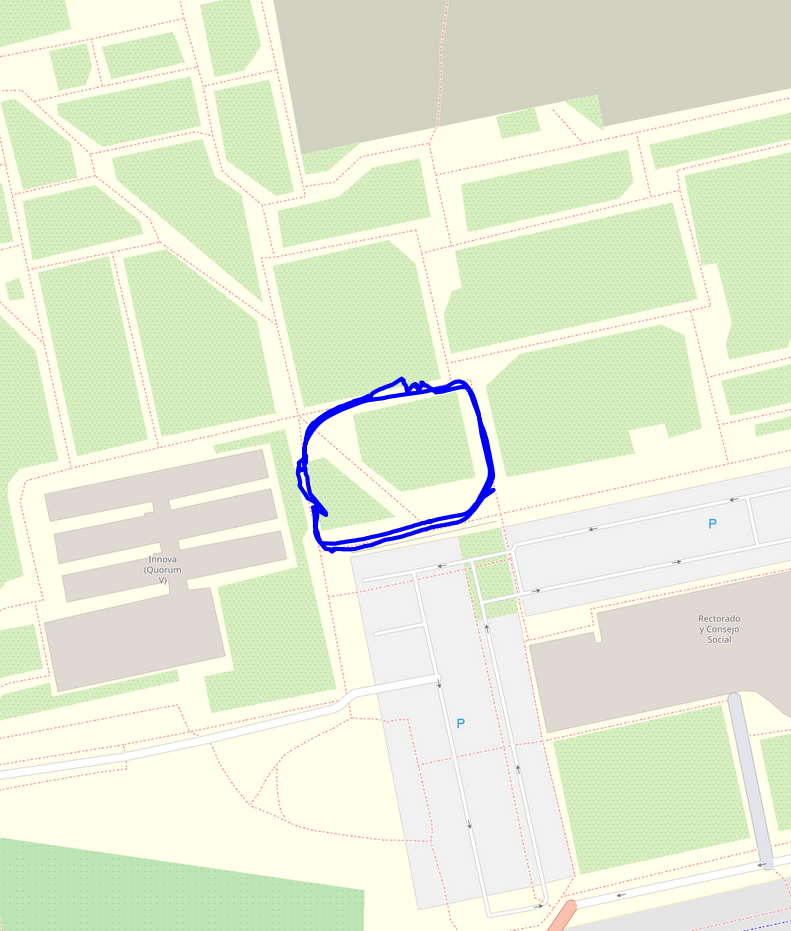
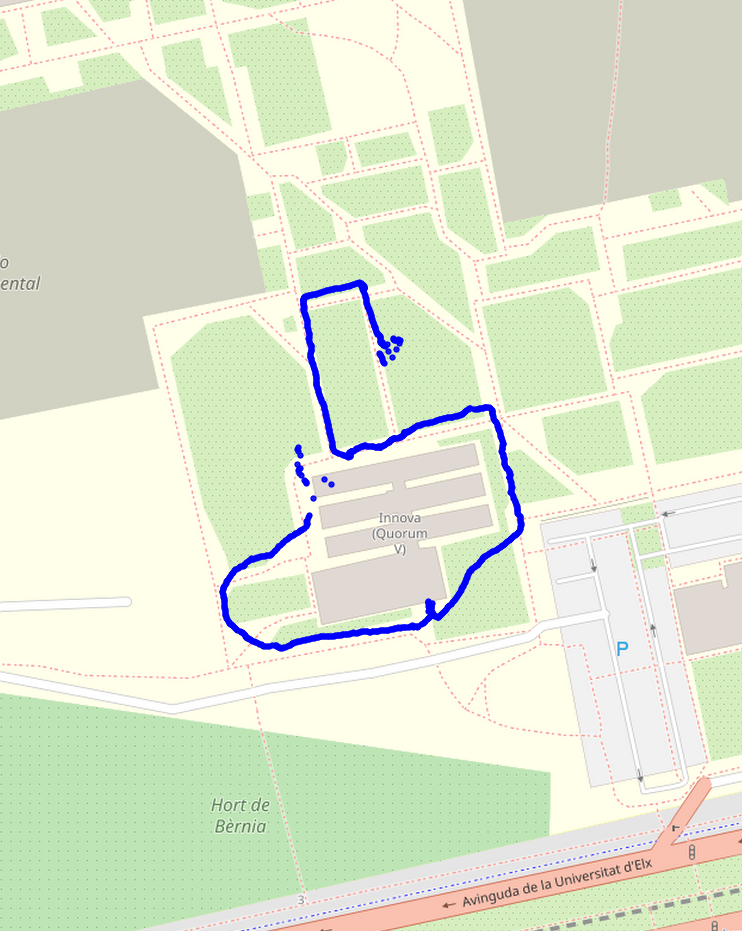
Working copy. Everything parametrized.

diff --git a/map/map.py b/map/map.py
@@ -1,13 +1,15 @@
-# import numpy as np
-# from artelib.homogeneousmatrix import HomogeneousMatrix
-# from artelib.tools import slerp
-# from eurocreader.eurocreader import EurocReader
-# from artelib.vector import Vector
-# from artelib.quaternion import Quaternion
-# import bisect
 # import matplotlib.pyplot as plt
+import numpy as np
+import yaml
 from lidarscanarray.lidarscanarray import LiDARScanArray
 from observations.posesarray import PosesArray, ArucoPosesArray, ArucoLandmarksPosesArray
+import tilemapbase
+import matplotlib.pyplot as plt
+from tools.gpsconversions import utm2gps
+import pyproj
+import pandas as pd
+
+from tools.plottools import plot_gps_OSM
 
 
 class Map():
@@ -28,13 +30,14 @@ class Map():
 
 
     """
-    def __init__(self, times=None, values=None):
+    def __init__(self):
         """
         given a list of scan times (ROS times), each pcd is read on demand
         """
         self.robotpath = None
         self.lidarscanarray = None
         self.landmarks = None
+        self.utm_ref = None
 
     def __len__(self):
         return len(self.robotpath)
@@ -58,8 +61,15 @@ class Map():
         # load the scans according to the times, do not load the corresponding pointclouds
         self.lidarscanarray.add_lidar_scans()
         # also load the ARUCO landmarks
-        self.landmarks = ArucoLandmarksPosesArray()
-        self.landmarks.read_data(directory=directory, filename='/robot0/SLAM/solution_graphslam_landmarks.csv')
+        self.landmarks_aruco = ArucoLandmarksPosesArray()
+        self.landmarks_aruco.read_data(directory=directory, filename='/robot0/SLAM/solution_graphslam_landmarks.csv')
+
+        # global_dir = os.path.dirname(os.path.abspath(__file__))
+        yaml_file_global = directory + '/' + 'robot0/gps0/reference.yaml'
+        with open(yaml_file_global) as file:
+            self.utm_ref = yaml.load(file, Loader=yaml.FullLoader)
+
+
 
     def draw_all_clouds(self):
         # self.lidarscanarray.draw_all_clouds_visualizer()
@@ -71,6 +81,7 @@ class Map():
         - view path
         - view pointclouds
         - view ARUCO landmarks
+        - The terraplanist option sets artificially z=0 in the solution.
         """
         global_transforms = self.robotpath.get_transforms()
         self.lidarscanarray.draw_map(global_transforms=global_transforms,
@@ -79,7 +90,127 @@ class Map():
                                      heights=[-2, 1.2],
                                      keyframe_sampling=keyframe_sampling,
                                      terraplanist=terraplanist)
-        # drawposes_openstreet
-        # draw
+
+    # plot_gps_OSM(df_gps=df_gps, save_fig=True, expand=0.001)
+
+    def plot_solution_utm_OSM(self, expand=0.001, save_fig=False):
+        # the global transforms expressed
+        global_transforms = self.robotpath.get_transforms()
+        utm_x = []
+        utm_y = []
+        utm_altitude = []
+        for transform in global_transforms:
+            pos = transform.pos()
+            utm_x.append(pos[0])
+            utm_y.append(pos[1])
+            utm_altitude.append(pos[2])
+
+        # convert from UTM to GPS to plot
+        latitude, longitude = utm2gps(utm_x, utm_y)
+        latitude = np.array(latitude)
+        longitude = np.array(longitude)
+        # add ref
+        latitude = latitude + self.utm_ref.get('latitude')
+        longitude = longitude + self.utm_ref.get('longitude')
+        # now project lat, lng to osm map.
+        tilemapbase.init(create=True)
+        extent = tilemapbase.Extent.from_lonlat(
+            longitude.min() - expand,
+            longitude.max() + expand,
+            latitude.min() - expand,
+            latitude.max() + expand,
+        )
+        x = []
+        y = []
+        for i in range(len(latitude)):
+            xi, yi = tilemapbase.project(longitude[i], latitude[i])
+            x.append(xi)
+            y.append(yi)
+        # trip_projected = df_gps.apply(
+        #     lambda x: tilemapbase.project(longitude, x.latitude), axis=1
+        # ).apply(pd.Series)
+        # trip_projected.columns = ["x", "y"]
+
+        tiles = tilemapbase.tiles.build_OSM()
+        fig, ax = plt.subplots(figsize=(8, 8), dpi=300)
+        ax.xaxis.set_visible(False)
+        ax.yaxis.set_visible(False)
+        plotter = tilemapbase.Plotter(extent, tiles, height=600)
+        plotter.plot(ax, tiles, alpha=0.8)
+        # ax.plot(trip_projected.x, trip_projected.y, color='blue', linewidth=1)
+        ax.scatter(x, y, color='blue', marker='.', s=1)
+        plt.axis('off')
+        plt.show(block=True)
+        if save_fig:
+            fig.savefig('trip.png', bbox_inches='tight', pad_inches=0, dpi=300)
 
 
+    def plot_test(self):
+        # Reference point (arbitrary origin in latitude, longitude)
+        ref_lat = self.utm_ref.get('latitude')  # Latitude of the reference point
+        ref_lon = self.utm_ref.get('longitude')  # Longitude of the reference point
+
+        # UTM coordinates relative to the reference point (arbitrary origin)
+        # utm_x = np.array([500000, 500100, 500200])  # Easting (X)
+        # utm_y = np.array([4649776, 4649876, 4649976])  # Northing (Y)
+
+        global_transforms = self.robotpath.get_transforms()
+        utm_x = []
+        utm_y = []
+        utm_altitude = []
+        for transform in global_transforms:
+            pos = transform.pos()
+            utm_x.append(pos[0])
+            utm_y.append(pos[1])
+            utm_altitude.append(pos[2])
+        utm_x = np.array(utm_x)
+        utm_y = np.array(utm_y)
+
+        # (proj='utm', zone='30', ellps='WGS84', datum='WGS84', preserve_units=False,
+        # units='m')
+
+        # Define the UTM zone and projection (use 'epsg:32633' for UTM Zone 33N)
+        utm_zone = 30
+        utm_proj = pyproj.CRS(f"EPSG:326{utm_zone}")
+
+        # Define the WGS84 (GPS) projection
+        wgs84_proj = pyproj.CRS("EPSG:4326")
+
+        # Initialize a transformer object to convert from UTM to WGS84 (GPS)
+        transformer = pyproj.Transformer.from_crs(utm_proj, wgs84_proj, always_xy=True)
+
+        # First, we need to transform the reference point to UTM coordinates
+        geod = pyproj.Geod(ellps="WGS84")
+        ref_utm_x, ref_utm_y, _ = geod.fwd(ref_lon, ref_lat, 0, 0)  # Use forward projection to get UTM
+
+        # Adjust UTM coordinates by subtracting the reference UTM coordinates
+        utm_x_adjusted = utm_x - ref_utm_x
+        utm_y_adjusted = utm_y - ref_utm_y
+
+        # Now, transform the adjusted UTM coordinates to latitude and longitude
+        longitude, latitude = transformer.transform(utm_x_adjusted, utm_y_adjusted)
+
+        df_gps = pd.DataFrame({'longitude': longitude, 'latitude': latitude})
+        plot_gps_OSM(df_gps, expand=0.001, save_fig=False)
+
+        # # Create a plot with a tilemap base
+        # fig, ax = plt.subplots(figsize=(8, 8))
+        #
+        # # Create an OpenStreetMap basemap
+        # tilemapbase.tiles.plot(ax=ax, zoom=12, lon_0=ref_lon, lat_0=ref_lat, zorder=1)
+        #
+        # # Plot the transformed UTM coordinates (latitude, longitude)
+        # ax.scatter(longitude, latitude, color='red', zorder=2, label="Points")
+        #
+        # # Add a label for each point (optional)
+        # for lon, lat in zip(longitude, latitude):
+        #     ax.text(lon + 0.001, lat + 0.001, f"({lon:.2f}, {lat:.2f})", fontsize=8)
+        #
+        # # Set labels and title
+        # ax.set_xlabel('Longitude')
+        # ax.set_ylabel('Latitude')
+        # ax.set_title('UTM Coordinates on OpenStreetMap')
+        #
+        # # Show the map
+        # plt.legend()
+        # plt.show()

diff --git a/tools/gpsconversions.py b/tools/gpsconversions.py
@@ -1,4 +1,5 @@
 import numpy as np
+import pyproj
 from pyproj import Proj
 import pandas as pd
 
@@ -39,6 +40,51 @@ def gps2utm(df_gps, config_ref):
     df_gps['y'] = UTMy
     df_gps['altitude'] = altitude
     return df_gps
+
+
+def utm2gps(utm_x, utm_y):
+    """
+    Projects lat, lon to UTM coordinates
+    using the origin (first lat, lon)
+    """
+    utm_zone = 30  # UTM Zone
+    utm_letter = 'T'  # UTM Latitude Band
+
+    # base reference system
+    # lat_ref = config_ref['latitude']
+    # lon_ref = config_ref['longitude']
+    # altitude_ref = config_ref['altitude']
+
+    utm_proj = pyproj.CRS(f"EPSG:326{utm_zone}")
+
+    # Create the WGS84 (GPS) projection
+    wgs84_proj = pyproj.CRS("EPSG:4326")  # WGS84 projection for GPS (latitude and longitude)
+
+    # Transform the UTM coordinates to WGS84 (latitude, longitude)
+    transformer = pyproj.Transformer.from_crs(utm_proj, wgs84_proj, always_xy=True)
+    longitude, latitude = transformer.transform(utm_x, utm_y)
+
+    # # status_array = np.array(status)
+    # myProj = Proj(proj='utm', zone='30', ellps='WGS84', datum='WGS84', preserve_units=False,
+    #               units='m')
+    #
+    # lat = np.array(latitude)
+    # lon = np.array(longitude)
+    # altitude = np.array(altitude)
+    #
+    # UTMx_ref, UTMy_ref = myProj(lon_ref, lat_ref)
+    # UTMx, UTMy = myProj(lon, lat)
+    # # UTMx = UTMx[idx]
+    # # UTMy = UTMy[idx]
+    # UTMx = UTMx - UTMx_ref
+    # UTMy = UTMy - UTMy_ref
+    # altitude = altitude - altitude_ref
+    # # df_gps.insert(2, 'x', UTMx, True)
+    # # df_gps.insert(2, 'y', UTMy, True)
+    # df_gps['x'] = UTMx
+    # df_gps['y'] = UTMy
+    # df_gps['altitude'] = altitude
+    return latitude, longitude
 
 
 def filter_gps(df_gps):

diff --git a/viewers/data_viewer.py b/viewers/data_viewer.py
@@ -38,9 +38,9 @@ def view_gps_data(directory):
         df_gps = gps2utm(df_gps, latlonref)
         # filter data (NaN and 0)
         df_gps = filter_gps(df_gps)
-        plot_gps_points(df_gps=df_gps, annotate_index=True)
-        plot_gps_points(df_gps=df_gps, annotate_error=True)
-        plot_utm_points(df_gps=df_gps, annotate_error=True)
+        # plot_gps_points(df_gps=df_gps, annotate_index=True)
+        # plot_gps_points(df_gps=df_gps, annotate_error=True)
+        # plot_utm_points(df_gps=df_gps, annotate_error=True)
         plot_gps_OSM(df_gps=df_gps, save_fig=True, expand=0.001)
 
     except FileNotFoundError:
@@ -71,13 +71,15 @@ if __name__ == "__main__":
     # directory = '/media/arvc/INTENSO/DATASETS/OUTDOOR/O3-2024-03-18-17-11-17'
     # directory = '/media/arvc/INTENSO/DATASETS/OUTDOOR/O4-2024-04-22-13-27-47'
     # directory = '/media/arvc/INTENSO/DATASETS/OUTDOOR/O5-2024-04-24-12-47-35'
-    directory = '/media/arvc/INTENSO/DATASETS/OUTDOOR/O6-2024-04-10-11-09-24'
+    # directory = '/media/arvc/INTENSO/DATASETS/OUTDOOR/O6-2024-04-10-11-09-24'
     # directory = '/media/arvc/INTENSO/DATASETS/OUTDOOR/O7-2024-04-22-13-45-50'
     # directory = '/media/arvc/INTENSO/DATASETS/OUTDOOR/O8-2024-04-24-13-05-16'
     # directory = '/media/arvc/INTENSO/DATASETS/INDOOR_OUTDOOR/IO1-2024-05-03-09-51-52'
+    directory = '/media/arvc/INTENSO/DATASETS/INDOOR_OUTDOOR/IO2-2025-03-25-16-54-17'
+
 
     # uncomment as necessary
-    view_IMU_data(directory=directory)
-    view_odo_data(directory=directory)
+    # view_IMU_data(directory=directory)
+    # view_odo_data(directory=directory)
     # view_odo_orientation_data(directory=directory)
     view_gps_data(directory=directory)

diff --git a/config/config.py b/config/config.py
@@ -9,23 +9,5 @@ class Parameters():
         yaml_file_global = global_dir + '/' + yaml_file
         with open(yaml_file_global) as file:
             self.config = yaml.load(file, Loader=yaml.FullLoader)
-            # self.max_radius = config.get('filter_by_radius').get('max_radius')
-            # self.min_radius = config.get('filter_by_radius').get('min_radius')
-            #
-            # self.max_height = config.get('filter_by_height').get('max_height')
-            # self.min_height = config.get('filter_by_height').get('min_height')
-            #
-            # self.max_distance = config.get('filter_by_radius').get('max_radius')
-            # self.min_distance = config.get('filter_by_radius').get('min_radius')
-            #
-            # self.voxel_size = config.get('down_sample').get('voxel_size')
-            #
-            # self.radius_gd = config.get('filter_ground_plane').get('radius_normals')
-            # self.max_nn_gd = config.get('filter_ground_plane').get('maximum_neighbors')
-            #
-            # self.radius_normals = config.get('normals').get('radius_normals')
-            # self.max_nn = config.get('normals').get('maximum_neighbors')
-
-            # self.distance_threshold = config.get('icp').get('distance_threshold')
 
 PARAMETERS = Parameters()

diff --git a/tools/plottools.py b/tools/plottools.py
@@ -101,9 +101,9 @@ def plot_quaternion_data(df_data, title='Quaternion data to Euler', annotate_tim
         qy = df_data['qy'][i]
         qz = df_data['qz'][i]
         qw = df_data['qw'][i]
-        q = [qw, qx, qy, qz]
-        Q = Quaternion(q)
-        th = Q.Euler()[0]
+        # q = [qw, qx, qy, qz]
+        Q = Quaternion(qx=qx, qy=qy, qz=qz, qw=qw)
+        th = Q.euler()[0]
         th.abg = th.abg + np.array([0, 0, -2.5])
         th.abg[2] = np.arctan2(np.sin(th.abg[2]), np.cos(th.abg[2]))
         eul.append(th.abg)
@@ -262,8 +262,8 @@ def plot_gps_OSM(df_gps, expand=0.001, save_fig=False):
     ax.yaxis.set_visible(False)
     plotter = tilemapbase.Plotter(extent, tiles, height=600)
     plotter.plot(ax, tiles, alpha=0.8)
-    ax.plot(trip_projected.x, trip_projected.y, color='blue', linewidth=1)
-    # ax.scatter(trip_projected.x, trip_projected.y, color='blue')
+    # ax.plot(trip_projected.x, trip_projected.y, color='blue', linewidth=1)
+    ax.scatter(trip_projected.x, trip_projected.y, color='blue', marker='.', s=1)
     plt.axis('off')
     plt.show(block=True)
     if save_fig:

diff --git a/artelib/quaternion.py b/artelib/quaternion.py
@@ -8,12 +8,10 @@ The Quaternion orientation class
 """
 import numpy as np
 from artelib import euler, rotationmatrix, homogeneousmatrix
-# from artelib import quaternion2rot, q2euler
 
 
 class Quaternion():
     def __init__(self, qx, qy, qz, qw):
-       # self.array = np.array(array)
         self.qx = qx
         self.qy = qy
         self.qz = qz
@@ -115,6 +113,7 @@ class Quaternion():
         R[2, 0] = 2 * qx * qz - 2 * qy * qw
         R[2, 1] = 2 * qy * qz + 2 * qx * qw
         R[2, 2] = 1 - 2 * qx ** 2 - 2 * qy ** 2
+        R = rotationmatrix.RotationMatrix(R)
         return R
 
     def q2euler(self):

diff --git a/run_map_viewer.py b/run_map_viewer.py
@@ -29,6 +29,9 @@ def map_viewer():
     # visualize the map on the UTM reference frame
     maplidar.draw_map(terraplanist=False, keyframe_sampling=keyframe_sampling, voxel_size=voxel_size)
     # maplidar.build_map()
+    # maplidar.plot_solution_utm_OSM()
+    # maplidar.plot_test()
+
 
 
 if __name__ == '__main__':
